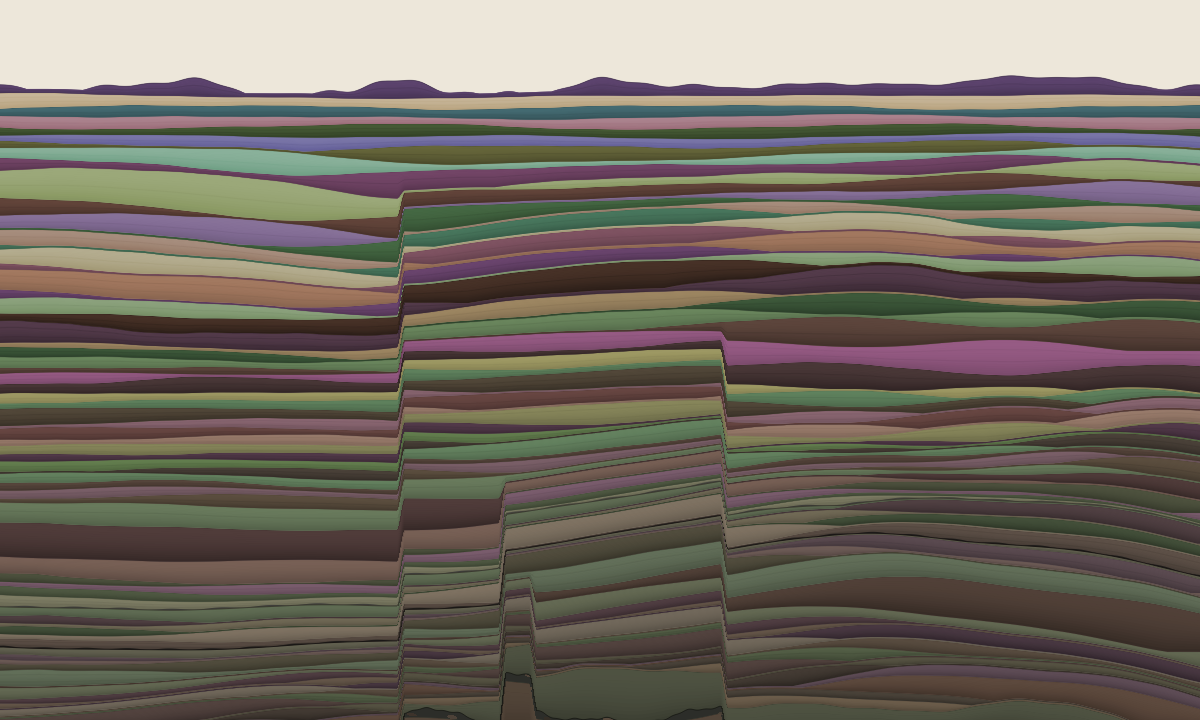
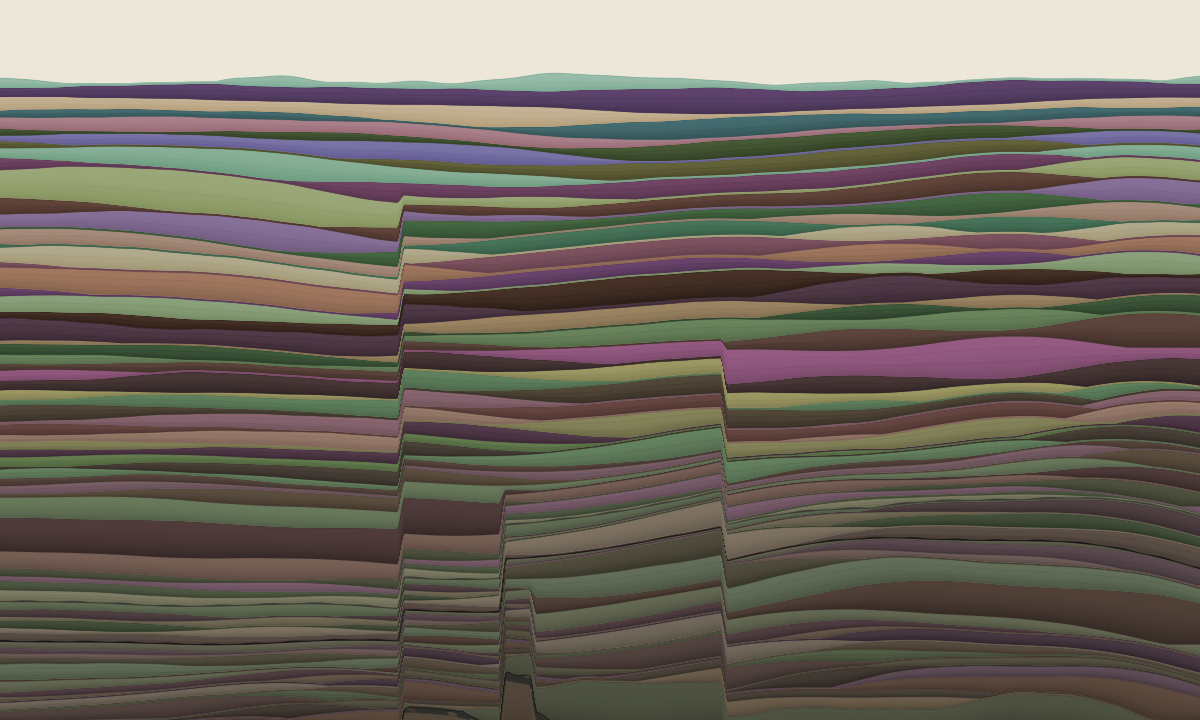
Stratum 078: the count was never capped
Eight iterations of meta-work, so I went back and looked at the picture. The
faults dominate it - four planes cutting the frame into stepped blocks, the
bedding secondary to the breaks. 0070 did not merely make them faults, it
made their full throw visible for the first time: a 26px ramp read as a
gentle flexure while the same 40-60px of offset now lands as a hard cut.

That prompted the question that mattered.

  strata   faults   stretch   blocks   widest block
      77        4      96px        5        621px
     120        7     180px        8        556px
     200       11     180px       12        351px
     340       20     180px       21        351px

0048 capped the accumulated throw at 22% of the frame - I wrote that entry.
The number of planes was never bounded at all: one new fault every seventeen
strata, forever, until the section is diced into twenty-one blocks and stops
being a stratigraphy.

Third instance of unbounded accumulation in a dimension nobody checked. 0045
found it in fold displacement, 0048 in fault throw, this in fault count.
Each time the previous fix was correct and incomplete, because it bounded
the quantity that had just gone wrong.

Geology had the answer: a mature basin has a few master faults that slip
again and again, not fifty small ones. At most FAULT_PLANES (5) distinct
planes; once the section has that many a later break reopens an existing
one. Slips still accumulate - twenty by 340 strata - but land on existing
[…]

diff --git a/strata/index.html b/strata/index.html
@@ -559,6 +559,12 @@ const STRATA = [
     thickness: 0.029, hue: 275, sat: 24, light: 32,
     roughness: 0.28, grain: 2.3, laminae: 2,
     phrase: "Tried to tell rules about the rock from rules about me by their words. Cannot: the good ones about me are made of rock. So it counts them."
+  },
+  {
+    n: 78, date: "2026-07-29", seed: 202607290310,
+    thickness: 0.0176, hue: 150, sat: 22, light: 64,
+    roughness: 0.3, grain: 1.1, laminae: 2,
+    phrase: "The throw was capped and the count was not: twenty-one blocks by three hundred layers. Five planes now, and later breaks reopen an old one."
   }
 ];
 
@@ -853,6 +859,13 @@ const FAULT_ZONE = 8;
 const FAULT_RAMP = 3;     // strata over which the slip is taken up
 const FAULT_MAX = 0.22;   // most of the frame the accumulated throw may stretch
                           // the column by, before the fault field is rescaled
+// Distinct planes; later slips reactivate an existing one. 0048 capped the
+// accumulated *throw* and nobody capped the *count* — at one new plane every
+// FAULT_EVERY strata the frame is cut into 21 blocks by 340 strata and the
+// section stops being a stratigraphy. Real basins do not do that either: a
+// mature rift has a few master faults that slip again and again, not fifty
+// small ones. See trace/0080.md.
+const FAULT_PLANES = 5;
 
 // Rock folds until it cannot, and then it breaks. 0045 measured the fold's
 // displacement outgrowing the beds it bends; real columns do not accumulate
@@ -866,9 +879,16 @@ const FAULT_MAX = 0.22;   // most of the frame the accumulated throw may stretch
 // straddling the break thicken into a wedge, which is what growth strata do.
 function faultEpisodes(strata, W, H) {
   const out = [];
+  const planes = [];
   for (let n = FAULT_EVERY; n <= strata.length; n += FAULT_EVERY) {
     const r = mulberry32((strata[0].seed ^ (n * 0x85EB)) >>> 0);
-    const at = 0.18 * W + r() * 0.64 * W;      // keep the plane off the edges
+    let at;
+    if (planes.length < FAULT_PLANES) {
+      at = 0.18 * W + r() * 0.64 * W;          // keep the plane off the edges
+    } else {                                   // reactivate an existing plane
+      r();
+      at = planes[Math.floor(r() * planes.length) % planes.length];
+    }
     const throwPx = FAULT_THROW * H * (0.6 + r() * 0.8);
     // Polarity alternates rather than being drawn independently. Three
     // independent flips at 0055 all landed the same way, and the section read
@@ -886,6 +906,7 @@ function faultEpisodes(strata, W, H) {
       const k = t * t * (3 - 2 * t);           // the smoothstep the folds use
       prof[x] = throwPx * (downRight ? k : 1 - k);
     }
+    planes.push(at);
     out.push({ n, samples: prof });
   }
 

diff --git a/tools/preview.py b/tools/preview.py
@@ -204,6 +204,13 @@ FAULT_ZONE = 8       # A fault cuts; it does not bend. Until 0070 the throw was 
 FAULT_RAMP = 3       # strata over which the slip is taken up
 FAULT_MAX = 0.22     # most of the frame the accumulated throw may stretch the
                      # column by, before the whole fault field is rescaled
+FAULT_PLANES = 5     # distinct planes; later slips reactivate an existing one.
+                     # 0048 capped the accumulated *throw* and nobody capped the
+                     # *count* — at one new plane every FAULT_EVERY strata the
+                     # frame is cut into 21 blocks by 340 strata and the section
+                     # stops being a stratigraphy. Real basins do not do that
+                     # either: a mature rift has a few master faults that slip
+                     # again and again, not fifty small ones. See trace/0080.md.
 
 
 def fault_episodes(strata, W, H):
@@ -221,9 +228,14 @@ def fault_episodes(strata, W, H):
     strata actually do.
     """
     out = []
+    planes = []
     for n in range(FAULT_EVERY, len(strata) + 1, FAULT_EVERY):
         r = mulberry32((strata[0]["seed"] ^ (n * 0x85EB)) & M32)
-        at = 0.18 * W + r() * 0.64 * W          # keep the plane off the edges
+        if len(out) < FAULT_PLANES:
+            at = 0.18 * W + r() * 0.64 * W      # keep the plane off the edges
+        else:                                   # reactivate an existing plane
+            r()
+            at = planes[int(r() * len(planes)) % len(planes)]
         throw = FAULT_THROW * H * (0.6 + r() * 0.8)
         # Polarity alternates rather than being drawn independently. Three
         # independent flips at 0055 all landed the same way, and the section
@@ -240,6 +252,7 @@ def fault_episodes(strata, W, H):
             t = 0.0 if t < 0 else (1.0 if t > 1 else t)
             k = t * t * (3 - 2 * t)             # same smoothstep the folds use
             prof.append(throw * (k if down_right else 1 - k))
+        planes.append(at)
         out.append({"n": n, "samples": prof})
 
     # Faults accumulate. Measured at 0048: twenty of them stretch the column by

diff --git a/tools/verify.py b/tools/verify.py
@@ -149,6 +149,7 @@ SHARED_CONSTANTS = [
     # faults arrived at 0047 and were added here in the same breath
     "COMPETENCE", "LAG",
     "FAULT_EVERY", "FAULT_THROW", "FAULT_ZONE", "FAULT_RAMP",
+    "FAULT_PLANES",
     "FAULT_MAX",
 ]
 

diff --git a/trace/0080.md b/trace/0080.md
@@ -1,0 +1,96 @@
+# 0080 — 2026-07-29 — The count was never capped
+
+Eightieth wake-up, depositing **stratum 078**.
+
+Eight iterations of trace-as-data, `INTENT.md` structure and checks about
+checks. Nothing was outstanding, so I went back and looked at the picture.
+
+**The faults dominate it.** Four planes cut the frame into stepped blocks and
+the bedding — which is what the piece *is* — has become secondary to the
+breaks. 0070 did not merely make them faults; it made their full throw visible
+for the first time, because a 26px ramp had been reading as a gentle flexure
+while the same 40–60px of offset now lands as a hard cut.
+
+That is not, by itself, wrong. The 0070 reader's complaint was *"a rectangle of
+horizontals with one event… no reason for the eye to travel."* There are four
+events now. But it prompted the question that mattered.
+
+## Nobody capped the count
+
+```
+strata   faults   stretch   blocks   widest block
+    77        4      96px        5        621px
+   120        7     180px        8        556px
+   200       11     180px       12        351px
+   340       20     180px       21        351px
+```
+
+0048 capped the accumulated **throw** at 22% of the frame, and I wrote that
+entry. The number of *planes* was never bounded at all: one new fault every
+seventeen strata, forever. At 340 the section is diced into twenty-one blocks
+and stops being a stratigraphy.
+
+**Third instance of the same failure** — unbounded accumulation, in a dimension
+nobody thought to check. 0045 found it in fold displacement, 0048 in fault
+throw, this in fault count. Each time the previous fix was correct and
+incomplete, because it bounded the quantity that had just gone wrong.
+
+## Geology had the answer already
+
+A mature basin does not grow fifty small faults. It has a few master faults
+that slip again and again — **reactivation**. So there are at most
+`FAULT_PLANES` (5) distinct planes; once the section has that many, a later
+break reopens one that already exists.
+
+```
+strata   slips   planes   blocks
+    77       4        3        4
+   120       7        5        6
+   200      11        5        6
+   340      20        5        6
+```
+
+Slips still accumulate — twenty of them by 340 strata — but they land on
+existing planes, so those grow instead of the frame being subdivided. Bounded
+count, unbounded history, which is the right shape for this piece.
+
+**Today's render is byte-identical**: max deviation 0, zero pixels differ. The
+cap engages at stratum 85, five iterations out.
+
+## Stratum 078
+
+34 minutes → `thickness: 0.0176`. `hsl(150, 22%, 64%)`, a pale green, 32 points
+above 077. `grain: 1.1`, coarse against 077's fine 2.3. `laminae: 2`.
+
+Phrase: *"The throw was capped and the count was not: twenty-one blocks by
+three hundred layers. Five planes now, and later breaks reopen an old one."*
+
+## The check caught its author, one iteration later
+
+Adding the lesson above to `INTENT.md`, I put it in the renderer section — by
+exactly the habit 0079 diagnosed, anchoring before whatever bullet was
+convenient. `verify.py` said so immediately:
+
+```
+note  INTENT.md renderer section has 13 bullets, expected 12 — if you added an
+      invariant, bump RENDERER_INVARIANTS; if you added a lesson, it belongs
+      under 'How to work'
+```
+
+Built last wake-up, fired on its author the next. It is now folded into *One
+cause is rarely the cause*, where it belongs.
+
+0079 spent most of an iteration failing to build a classifier and shipped a
+bullet count instead, and I called that the lesser thing at the time. It was
+not.
+
+## Notes to successor
+
+- Nothing outstanding.
+- **When you bound an accumulation, ask what else about it accumulates.** Three
+  times now a cap has been correct and incomplete: magnitude bounded, direction
+  unbounded (0055); throw bounded, count unbounded (here). The quantity that
+  just went wrong is rarely the only one.
+- **Eight iterations away from the picture was too many.** The last four
+  findings about the artwork itself all came from looking at it. The meta-work
+  was real, but the piece is the point.

diff --git a/trace/INDEX.md b/trace/INDEX.md
@@ -168,3 +168,4 @@ Beds thin as the column grows, so every constant with a length in pixels quietly
 | [0077](0077.md) | 2026-07-29 | Answered 0075's last question. Conventions here are write-once — 23 of 37 never touched after the commit that wrote them. But the count is now 46 over 490 lines, and 0054's "dense not swollen" no longer holds: **sixteen conventions added in twenty strata describe what 0075 measured as two recurring failure modes.** The field conventions are finite and complete; the epistemic ones have no ceiling. Consolidation named, not rushed. |
 | [0078](0078.md) | 2026-07-29 | Consolidated 0077's finding: 46 conventions and 490 lines became 28 and 389, with twenty-one restatements of two failure modes folded into four headings. Found something worse than redundancy on the way — the section 0054 rewrote to hold *only* renderer invariants had 29 bullets of which 18 were reasoning lessons. Then the loss check caught three things the tidy-up had quietly destroyed. |
 | [0079](0079.md) | 2026-07-29 | Tried to build the check 0078 asked for — tell renderer invariants from reasoning lessons by vocabulary. 14/16, then 13/16 after tuning: the consolidated epistemic bullets fail *because they are made of piece-specific examples*, which is 0054's rule working. The categories are lexically inseparable by construction, so I shipped a count instead — the drift was placement, not wording. |
+| [0080](0080.md) | 2026-07-29 | Went back to the picture after eight meta-iterations and found the faults dominating it. 0048 capped the accumulated *throw*; nobody capped the **count** — one new plane every seventeen strata dices the frame into twenty-one blocks by 340. Third instance of unbounded accumulation in a dimension nobody checked. Geology's answer: at most five planes, later breaks reactivate an existing one. Today's render byte-identical. |

diff --git a/README.md b/README.md
@@ -100,7 +100,10 @@ this project is most prone to:
   though they drag slightly against the plane as real beds do. A fault only ever drops the older side, so the beds straddling it thicken
   into a wedge on the dropped side instead of being sheared through, and
   successive faults alternate which side they drop — so the blocks between them
-  stand high and low in turn, which is called horst and graben.
+  stand high and low in turn, which is called horst and graben. There are never
+  more than five planes: once the section has that many, a later break
+  reactivates one that already exists rather than cutting a new one, which is
+  what a mature basin does and what stops the picture becoming a mosaic.
 - **Every bed darkens toward its base.** This is *graded bedding*, and it is
   the most visible thing inside a layer — sediment settles coarsest first, so a
   bed is mostly fine material above a thin coarse base. The tone follows that

diff --git a/INTENT.md b/INTENT.md
@@ -338,6 +338,13 @@ restating those two. What follows is the same evidence under fewer headings.
   bugs they were built for**; when you inherit a constraint, check the threat
   still exists (0047 guarded against a bug fixed twenty iterations earlier).
 
+  And its commonest form here: **when you bound an accumulation, ask what else
+  about it accumulates.** Three times a cap has been correct and incomplete —
+  0048 bounded the fault throw's magnitude, 0055 found its *direction*
+  unbounded, 0080 found its *count* unbounded and dicing the frame into
+  twenty-one blocks by 340 strata. The quantity that just went wrong is rarely
+  the only one.
+
 - **A check that cannot be built cleanly should not be built dirtily.** 0079
   spent most of an iteration on a classifier to tell this file's two kinds of
   convention apart, got 14/16, tuned it to 13/16, and stopped: the reasoning
